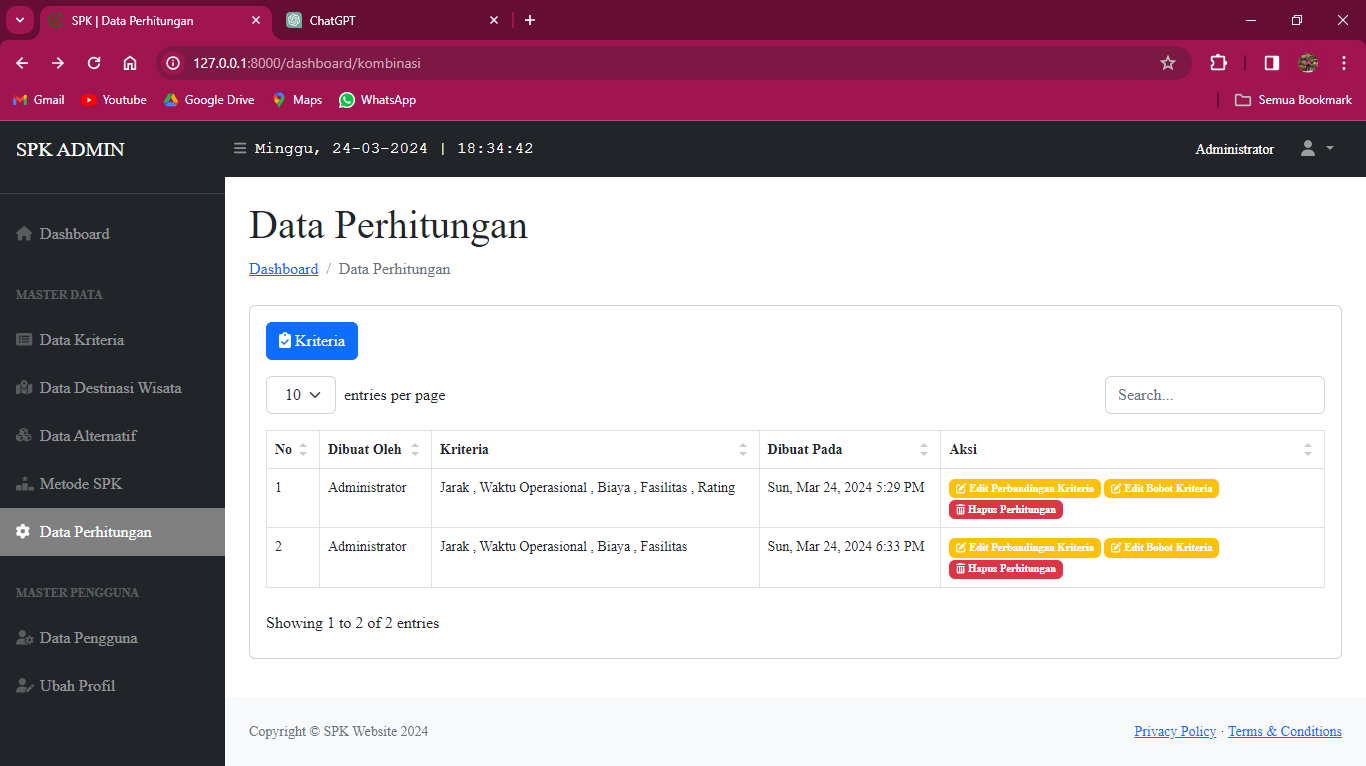
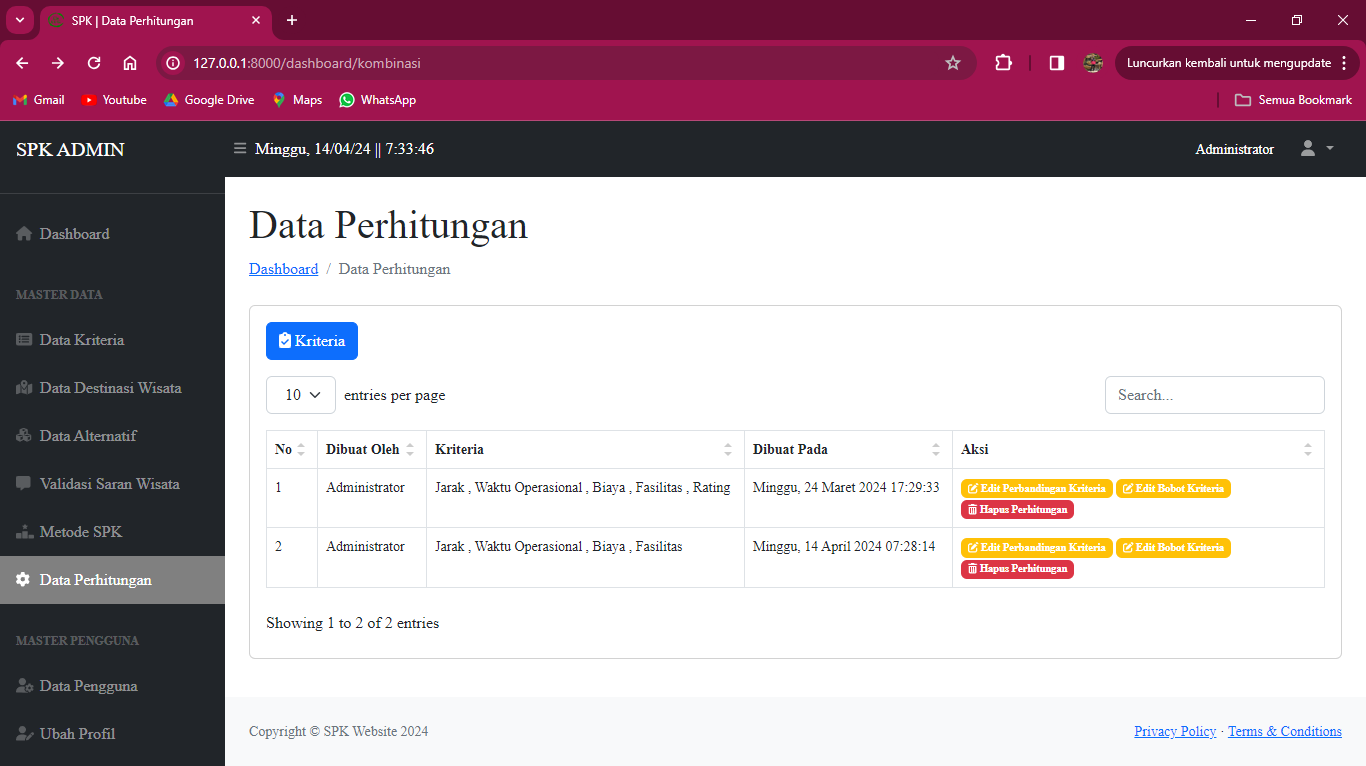
spk-revisi

diff --git a/resources/views/pages/admin/saran/data.blade.php b/resources/views/pages/admin/saran/data.blade.php
@@ -24,7 +24,7 @@
                 @elseif('user')
                 <a href="{{ route('sarans.create') }}" type="button" class="btn btn-primary mb-3">
                     <i class="fas fa-plus me-1"></i>
-                    Komentar
+                    Saran Destinasi Wisata
                 </a>
                 @endcan
                 <table id="datatablesSimple" class="table table-bordered">
@@ -36,6 +36,7 @@
                             @endcan
                             <th>Saran Nama Destinasi Wisata</th>
                             <th>Jenis Wisata</th>
+                            <th>Keterangan</th>
                             <th>Validasi</th>
                             <th>Aksi</th>
                         </tr>
@@ -51,6 +52,8 @@
                             <td class="text-center">{{ $saran->nama_wisata }}</td>
                             <td class="text-center">
                                 {{ $saran->jenis->jenis_name ?? 'Tidak Punya Jenis Wisata' }}
+                            </td>
+                            <td class="text-center">{{ $saran->keterangan }}
                             </td>
                             @if ($saran->validasi == 0)
                             <td>
@@ -70,14 +73,14 @@
                                 <a href="{{ route('sarans.edit', $saran->id) }}" class="badge bg-warning">
                                     <i class="fa-solid fa-pen-to-square"></i>
                                 </a>
-                                <form action="{{ route('sarans.destroy', $saran->id) }}" method="POST"
+                                {{-- <form action="{{ route('sarans.destroy', $saran->id) }}" method="POST"
                                     class="d-inline">
                                     @method('delete')
                                     @csrf
                                     <button class="badge bg-danger border-0 btnDelete" data-object="Saran {{ $saran->nama_wisata }}">
                                         <i class="fa-solid fa-trash-can"></i>
                                     </button>
-                                </form>
+                                </form> --}}
                                 @elseif('user')
                                 @if($saran->validasi == 0)
                                 <a href="{{ route('sarans.edit', $saran->id) }}" class="badge bg-warning">

diff --git a/app/Http/Controllers/Admin/SaranController.php b/app/Http/Controllers/Admin/SaranController.php
@@ -25,6 +25,7 @@ class SaranController extends Controller
                 ->select('wisatas.*', 'users.name', 'users.username')
                 ->orderBy('wisatas.created_at', 'desc')
                 ->get();
+            $title = 'Validasi Saran Destinasi Wisata';
         } else {
             // Jika pengguna adalah user, ambil data wisata yang dibuat oleh pengguna tersebut
             $sarans = Wisata::join('users', 'wisatas.user_id', '=', 'users.id')
@@ -33,9 +34,10 @@ class SaranController extends Controller
                 ->orWhere('users.level', '=', 'USER')
                 ->orderBy('wisatas.created_at', 'desc')
                 ->get();
+            $title = 'Saran Destinasi Wisata';
         }
         return view('pages.admin.saran.data', [
-            'title'     => 'Saran Destinasi Wisata',
+            'title'     => $title,
             'sarans'    => $sarans
         ]);
     }
@@ -129,6 +131,7 @@ class SaranController extends Controller
     {
         $saran              = Wisata::findOrFail($id);
         $saran->nama_wisata = $request->nama_wisata;
+        $saran->keterangan  = $request->keterangan;
         $saran->validasi    = $request->validasi;
         $saran->save();
 

diff --git a/resources/views/pages/admin/saran/create.blade.php b/resources/views/pages/admin/saran/create.blade.php
@@ -35,10 +35,20 @@
                     </div>
                 @enderror
             </div>
+            <div class="mb-3">
+                <label for="keterangan" class="form-label">Keterangan</label>
+                <input type="text" class="form-control @error('keterangan') is-invalid @enderror" id="keterangan" name="keterangan"
+                    value="{{ old('keterangan') }}" autofocus required placeholder="Masukkan Keterangan">
+                @error('keterangan')
+                <div class="invalid-feedback">
+                    {{ $message }}
+                </div>
+                @enderror
+            </div>
             <input type="hidden" name="user_id" value="{{ auth()->user()->id }}">
             <input type="hidden" name="lokasi_maps" value="-">
             <input type="hidden" name="link_foto" value="-">
-            <input type="hidden" name="keterangan" value="-">
+            {{-- <input type="hidden" name="keterangan" value="-"> --}}
             <input type="hidden" name="fasilitas" value="-">
             <input type="hidden" name="biaya" value="0">
             <input type="hidden" name="situs" value="-">

diff --git a/resources/views/includes/admin/sidenav.blade.php b/resources/views/includes/admin/sidenav.blade.php
@@ -36,6 +36,15 @@
                     </div>
                     Data Alternatif
                 </a>
+                @can('admin')
+                <a class="nav-link {{ Request::is('dashboard/sarans*') ? 'active' : '' }}"
+                    href="{{ route('sarans.index') }}">
+                    <div class="sb-nav-link-icon col-1">
+                        <i class="fas fa-comment-alt"></i>
+                    </div>
+                    Validasi Saran Wisata
+                </a>
+                @elseif('user')
                 <a class="nav-link {{ Request::is('dashboard/sarans*') ? 'active' : '' }}"
                     href="{{ route('sarans.index') }}">
                     <div class="sb-nav-link-icon col-1">
@@ -43,6 +52,7 @@
                     </div>
                     Saran Destinasi Wisata
                 </a>
+                @endcan
                 <a class="nav-link {{ Request::is('dashboard/showkombinasi*') ? 'active' : '' }}"
                     href="{{ route('kombinasi.awal') }}">
                     <div class="sb-nav-link-icon col-1">

diff --git a/resources/views/pages/admin/kombinasi/perbandingan.blade.php b/resources/views/pages/admin/kombinasi/perbandingan.blade.php
@@ -78,10 +78,9 @@
                                     </button>
                                     @endcan
                                     @if ($isDoneCounting)
-                                    <a href="{{ route('kombinasi.index', $criteria_analysis->id) }}"
-                                        class="btn btn-success mb-3">
-                                        <i class="fa-solid fa-eye"></i>
-                                        Hasil
+                                    <a href="{{ route('kombinasi.updateBobot', $criteria_analysis->id) }}"
+                                        class="btn btn-warning mb-3 text-white">
+                                        <i class="fa-solid fa-pen-to-square"></i> Edit Bobot Kriteria
                                     </a>
                                     @else
                                     <a class="btn btn-success disabled mb-3">

diff --git a/app/Http/Controllers/Admin/UserController.php b/app/Http/Controllers/Admin/UserController.php
@@ -110,7 +110,7 @@ class UserController extends Controller
             $validate['password'] = Hash::make($validate['password']);
         }
         User::where('id', $user->id)->update($validate);
-        return redirect('/dashboard/users')->with('success', 'Pengguna yang Dipilih Telah Dihapus!');
+        return redirect('/dashboard/users')->with('success', 'Pengguna yang Dipilih Telah Diperbarui!');
     }
 
     /**
@@ -125,8 +125,8 @@ class UserController extends Controller
             return redirect()->back()->with('error', 'Anda Tidak Memiliki Ijin Untuk Melakukan Tindakan Ini.');
         }
 
-        $jenis = User::findOrFail($id);
-        $jenis->delete();
+        $user = User::findOrFail($id);
+        $user->delete();
         return redirect()->route('users.index')->with('success', 'Pengguna yang Dipilih Telah Dihapus!');
     }
 }

diff --git a/resources/views/pages/free/ahp.blade.php b/resources/views/pages/free/ahp.blade.php
@@ -274,12 +274,12 @@
             </div>
         </div>
     </div>
-    {{-- Menentukan Eigen Vector Alternatif di Setiap Alternatif --}}
+    {{-- Menentukan Eigen Vector Alternatif di Setiap Kriteria --}}
     <div class="card mb-4">
         <div class="card-body table-responsive">
             <div class="d-sm-flex align-items-center">
                 <div class="mb-4">
-                    <h4 class="mb-0 text-gray-800">Menentukan Eigen Vector Alternatif di Setiap Alternatif</h4>
+                    <h4 class="mb-0 text-gray-800">Menentukan Eigen Vector Alternatif di Setiap Kriteria</h4>
                 </div>
             </div>
             <div>

diff --git a/resources/views/pages/free/ahpDetail.blade.php b/resources/views/pages/free/ahpDetail.blade.php
@@ -306,12 +306,12 @@
             </div>
         </div>
     </div>
-    {{-- Menentukan Eigen Vector Alternatif di Setiap Alternatif --}}
+    {{-- Menentukan Eigen Vector Alternatif di Setiap Kriteria --}}
     <div class="card mb-4">
         <div class="card-body table-responsive">
             <div class="d-sm-flex align-items-center">
                 <div class="mb-4">
-                    <h4 class="mb-0 text-gray-800">Menentukan Eigen Vector Alternatif di Setiap Alternatif</h4>
+                    <h4 class="mb-0 text-gray-800">Menentukan Eigen Vector Alternatif di Setiap Kriteria</h4>
                 </div>
             </div>
             <div>

diff --git a/resources/views/pages/admin/saran/edit.blade.php b/resources/views/pages/admin/saran/edit.blade.php
@@ -75,6 +75,11 @@
                     </div>
                 @enderror
             </div>
+            <div class="mb-3">
+                <label for="keterangan" class="form-label">Keterangan</label>
+                <input type="text" class="form-control" id="keterangan" name="keterangan"
+                    value="{{ $saran->keterangan }}">
+            </div>
             <input type="hidden" class="form-control" id="validasi" name="validasi" value="{{ $saran->validasi }}">
             <button type="submit" class="btn btn-primary mb-3">Simpan Perubahan</button>
             <a href="/dashboard/sarans" class="btn btn-danger mb-3">Cancel</a>

diff --git a/resources/views/pages/free/kombinasi.blade.php b/resources/views/pages/free/kombinasi.blade.php
@@ -278,7 +278,7 @@
         <div class="card-body table-responsive">
             <div class="d-sm-flex align-items-center">
                 <div class="mb-4">
-                    <h4 class="mb-0 text-gray-800">SAW - Normalisasi Tabel Alternatif</h4>
+                    <h4 class="mb-0 text-gray-800">SAW - Normalisasi Alternatif</h4>
                 </div>
             </div>
             <table class="table table-bordered table-condensed table-responsive">

diff --git a/resources/views/pages/free/kombinasiDetail.blade.php b/resources/views/pages/free/kombinasiDetail.blade.php
@@ -310,7 +310,7 @@
         <div class="card-body table-responsive">
             <div class="d-sm-flex align-items-center">
                 <div class="mb-4">
-                    <h4 class="mb-0 text-gray-800">SAW - Normalisasi Tabel Alternatif</h4>
+                    <h4 class="mb-0 text-gray-800">SAW - Normalisasi Alternatif</h4>
                 </div>
             </div>
             <table class="table table-bordered table-condensed table-responsive">

diff --git a/app/Http/Requests/Admin/WisataUpdateRequest.php b/app/Http/Requests/Admin/WisataUpdateRequest.php
@@ -31,9 +31,7 @@ class WisataUpdateRequest extends FormRequest
             'fasilitas'   => 'required',
             'biaya'       => 'required',
             'situs'       => 'nullable',
-            'validasi'    => 'required',
             'jenis_id'    => 'required',
-            'user_id'     => 'required',
         ];
     }
 }
